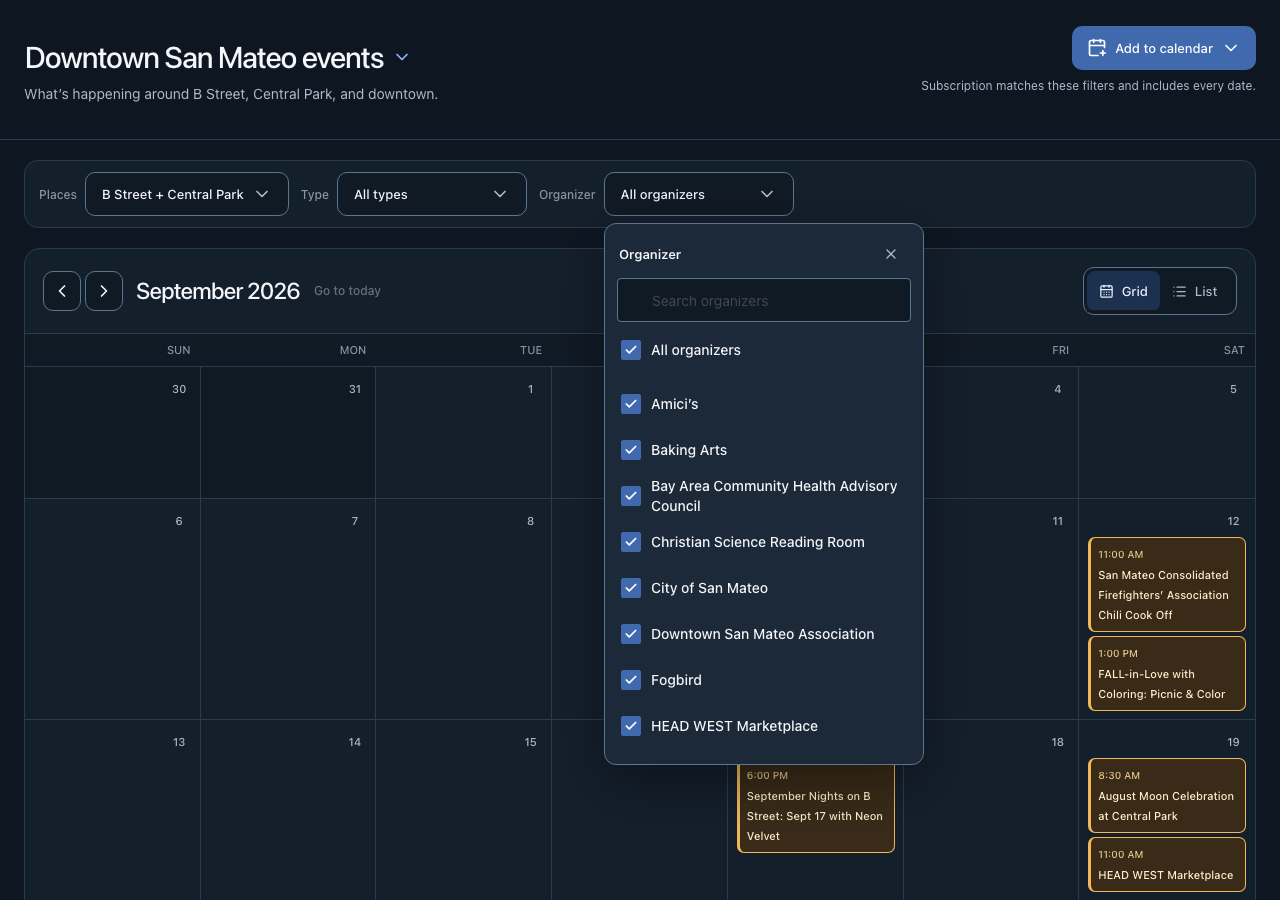
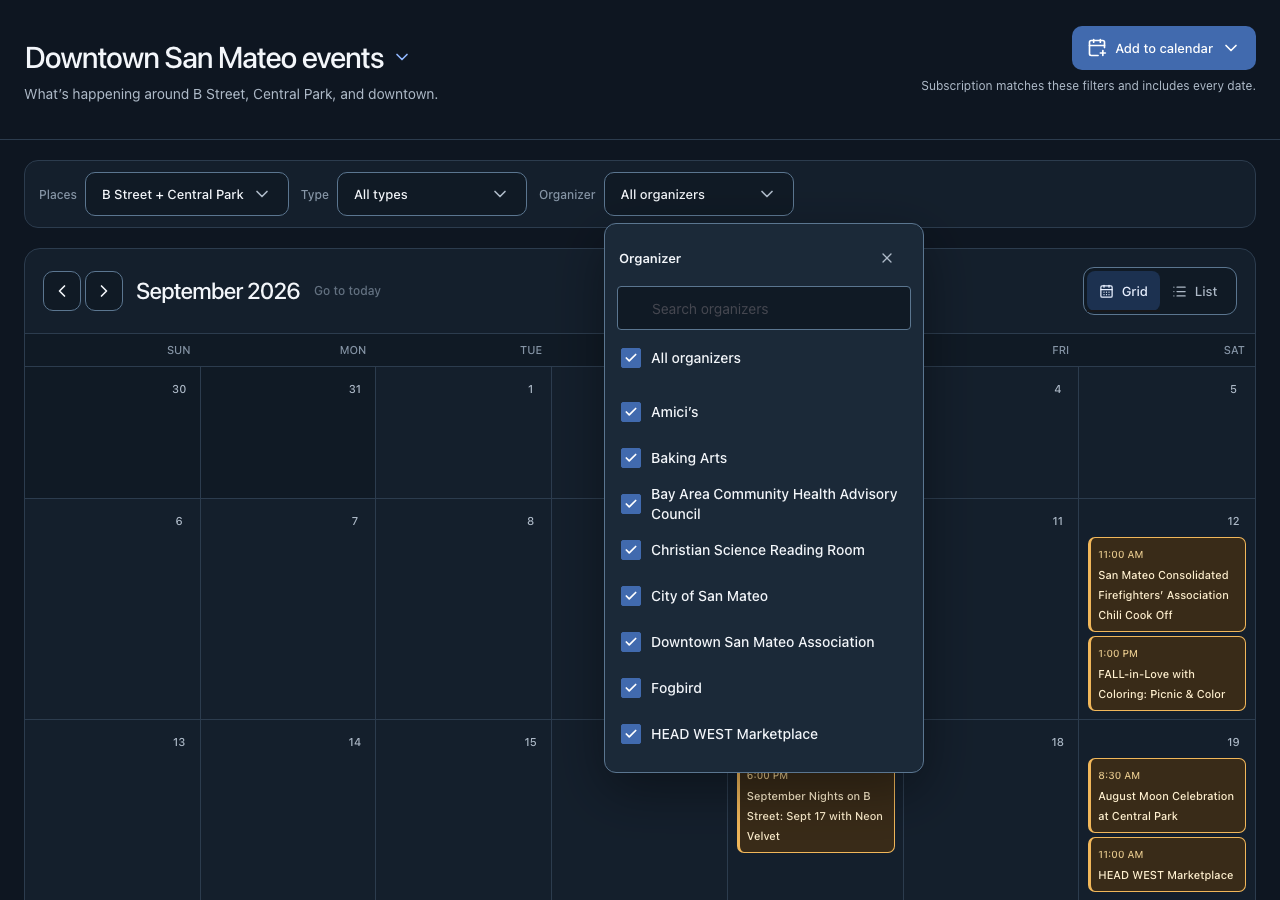
Address DTSM filter review findings

Changed region(s): [[0.4688, 0.4356, 0.7188, 0.8711], [0.4688, 0.28, 0.5938, 0.4044]]

diff --git a/frontend/src/App.test.tsx b/frontend/src/App.test.tsx
@@ -522,7 +522,9 @@ describe('Calendar explorer', () => {
       })
     )
     const user = userEvent.setup()
-    await renderScenario()
+    window.history.replaceState({}, '', '/?__scenario=busy')
+    renderApp()
+    await screen.findByRole('button', { name: /Second Saturday Market/ })
     await user.click(screen.getByRole('button', { name: 'Type: Events' }))
     const events = await screen.findByRole('checkbox', { name: 'Events' })
     expect(events.closest('[data-scope="checkbox"]')).toHaveAttribute(
@@ -534,6 +536,70 @@ describe('Calendar explorer', () => {
     expect(localStorage.getItem('calendar-explorer:v1')).toContain(
       '"categoryIds":[15,25]'
     )
+  })
+
+  it('drops hidden series IDs on the first explicit semantic type change', async () => {
+    localStorage.setItem(
+      'calendar-explorer:v1',
+      JSON.stringify({
+        filters: {
+          dtsm: {
+            venueIds: [1201, 1249, 1260, 1328, 3999, 1137],
+            organizerIds: null,
+            categoryIds: [24]
+          }
+        }
+      })
+    )
+    const user = userEvent.setup()
+    window.history.replaceState({}, '', '/?__scenario=busy')
+    renderApp()
+    await screen.findByRole('button', { name: /Second Saturday Market/ })
+    await user.click(
+      screen.getByRole('button', { name: 'Type: Head West 2026' })
+    )
+    await user.click(
+      await screen.findByRole('checkbox', { name: 'Promotions' })
+    )
+    expect(localStorage.getItem('calendar-explorer:v1')).toContain(
+      '"categoryIds":[14,26]'
+    )
+    expect(localStorage.getItem('calendar-explorer:v1')).not.toContain(
+      '"categoryIds":[14,24,26]'
+    )
+    await user.keyboard('{Escape}')
+    await user.click(screen.getByRole('button', { name: 'Add to calendar' }))
+    expect(screen.getByText('Apple Calendar').closest('a')).toHaveAttribute(
+      'href',
+      'webcal://localhost:8787/dtsm-events.ics?venues=1137%2C1201%2C1249%2C1260%2C1328%2C3999&categories=14%2C26'
+    )
+  })
+
+  it('dismisses an initially open place filter with Close and outside interaction', async () => {
+    window.history.replaceState({}, '', '/?__scenario=busy&__panel=places')
+    const user = userEvent.setup()
+    renderApp()
+    await screen.findByRole('checkbox', { name: 'All places' })
+    const trigger = screen.getByRole('button', {
+      name: 'Places: B Street + Central Park'
+    })
+    await user.click(screen.getByRole('button', { name: 'Close place filters' }))
+    await waitFor(() =>
+      expect(
+        screen.queryByRole('checkbox', { name: 'All places' })
+      ).not.toBeInTheDocument()
+    )
+    expect(trigger).toHaveFocus()
+
+    await user.click(trigger)
+    await screen.findByRole('checkbox', { name: 'All places' })
+    await user.click(screen.getByRole('heading', { level: 2 }))
+    await waitFor(() =>
+      expect(
+        screen.queryByRole('checkbox', { name: 'All places' })
+      ).not.toBeInTheDocument()
+    )
+    expect(trigger).toHaveFocus()
   })
 
   it('shows compact grid overflow', async () => {

diff --git a/frontend/src/components/FilterPopover.tsx b/frontend/src/components/FilterPopover.tsx
@@ -23,7 +23,11 @@ import {
   type IdSelection
 } from '../filters'
 import { controlProps, focusRing } from '../theme'
-import { matchesFilter, visualFilterPanel } from './filter-utils'
+import {
+  matchesFilter,
+  visualFilterPanel,
+  visualFilterSearch
+} from './filter-utils'
 
 export function FilterCheckboxRow({
   checked,
@@ -73,14 +77,20 @@ export function FilterPopover(props: {
   searchable?: boolean
   onChange: (selection: IdSelection) => void
 }) {
-  const [query, setQuery] = useState('')
+  const [query, setQuery] = useState(() =>
+    visualFilterSearch(props.label.toLocaleLowerCase())
+  )
   const searchRef = useRef<HTMLInputElement>(null)
   const allRef = useRef<HTMLInputElement>(null)
   const choices = props.choices.filter(choice =>
     matchesFilter(choice.name, query)
   )
   const allIds = props.choices.flatMap(choice => choice.ids)
-  const forcedOpen = visualFilterPanel(props.label.toLocaleLowerCase())
+  const visibleSelection =
+    props.selection === null
+      ? null
+      : props.selection.filter(id => allIds.includes(id))
+  const fixtureOpen = visualFilterPanel(props.label.toLocaleLowerCase())
   const summary = selectionSummary(
     props.selection,
     props.rawOptions,
@@ -90,7 +100,7 @@ export function FilterPopover(props: {
   )
   return (
     <Popover.Root
-      open={forcedOpen || undefined}
+      defaultOpen={fixtureOpen}
       positioning={{ placement: 'bottom-start', gutter: 7 }}
       initialFocusEl={() =>
         props.searchable ? searchRef.current : allRef.current
@@ -131,6 +141,8 @@ export function FilterPopover(props: {
                 <CloseButton
                   aria-label={`Close ${props.label.toLocaleLowerCase()} filters`}
                   size="sm"
+                  minW="touchTarget"
+                  minH="touchTarget"
                   color="calendar.muted"
                   _focusVisible={focusRing}
                 />
@@ -177,7 +189,7 @@ export function FilterPopover(props: {
                   label={choice.name}
                   onChange={checked =>
                     props.onChange(
-                      toggleIds(props.selection, choice.ids, checked, allIds)
+                      toggleIds(visibleSelection, choice.ids, checked, allIds)
                     )
                   }
                 />

diff --git a/frontend/src/components/PlaceFilterPopover.tsx b/frontend/src/components/PlaceFilterPopover.tsx
@@ -23,7 +23,11 @@ import {
 } from '../filters'
 import { controlProps, focusRing } from '../theme'
 import { FilterCheckboxRow } from './FilterPopover'
-import { matchesFilter, visualFilterPanel } from './filter-utils'
+import {
+  matchesFilter,
+  visualFilterPanel,
+  visualFilterSearch
+} from './filter-utils'
 
 export function PlaceFilterPopover(props: {
   selection: IdSelection
@@ -32,9 +36,9 @@ export function PlaceFilterPopover(props: {
   defaultIds: readonly number[]
   onChange: (selection: IdSelection) => void
 }) {
-  const [query, setQuery] = useState('')
+  const [query, setQuery] = useState(() => visualFilterSearch('places'))
   const searchRef = useRef<HTMLInputElement>(null)
-  const forcedOpen = visualFilterPanel('places')
+  const fixtureOpen = visualFilterPanel('places')
   const allIds = [
     ...props.model.placeGroups.flatMap(group => group.ids),
     ...props.model.places.map(place => place.id)
@@ -70,7 +74,7 @@ export function PlaceFilterPopover(props: {
 
   return (
     <Popover.Root
-      open={forcedOpen || undefined}
+      defaultOpen={fixtureOpen}
       positioning={{ placement: 'bottom-start', gutter: 7 }}
       initialFocusEl={() => searchRef.current}
       onOpenChange={({ open }) => !open && setQuery('')}
@@ -90,8 +94,8 @@ export function PlaceFilterPopover(props: {
       <Portal>
         <Popover.Positioner>
           <Popover.Content
-            minW="300px"
-            maxW="min(410px, calc(100vw - 28px))"
+            w="min(410px, calc(100vw - 28px))"
+            minW="0"
             p="6px"
             borderWidth="1px"
             borderColor="calendar.controlBorder"
@@ -109,6 +113,8 @@ export function PlaceFilterPopover(props: {
                 <CloseButton
                   aria-label="Close place filters"
                   size="sm"
+                  minW="touchTarget"
+                  minH="touchTarget"
                   color="calendar.muted"
                   _focusVisible={focusRing}
                 />

diff --git a/frontend/src/App.tsx b/frontend/src/App.tsx
@@ -42,7 +42,27 @@ export default function App() {
   const [state, setState] = useState<ExplorerState>(() => {
     /* istanbul ignore if -- localStorage is present in every supported browser. */
     if (typeof localStorage === 'undefined') return defaultExplorerState(false)
-    return readExplorerState(localStorage, mediaMatches('(max-width: 700px)'))
+    const restored = readExplorerState(
+      localStorage,
+      mediaMatches('(max-width: 700px)')
+    )
+    /* istanbul ignore next -- Vite removes this visual-QA branch in production. */
+    if (
+      import.meta.env.DEV &&
+      new URLSearchParams(window.location.search).get('__selection') ===
+        'partial-b-street'
+    )
+      return {
+        ...restored,
+        filters: {
+          ...restored.filters,
+          dtsm: {
+            ...restored.filters.dtsm,
+            venueIds: [1249, 1260, 1328, 3999, 1137]
+          }
+        }
+      }
+    return restored
   })
   const [selectedKey, setSelectedKey] = useState<string | null>(null)
   const [filtersOpen, setFiltersOpen] = useState(() => {
@@ -54,10 +74,6 @@ export default function App() {
   })
   const [status, setStatus] = useState('')
   const [focusDay, setFocusDay] = useState<string | null>(null)
-  /* istanbul ignore next -- Vite removes this visual-QA branch in production. */
-  const forceFiltersOpen =
-    import.meta.env.DEV &&
-    new URLSearchParams(window.location.search).has('__panel')
 
   useEffect(() => {
     if (!status) return
@@ -195,7 +211,7 @@ export default function App() {
           feed={explorer.feed}
           filters={explorer.filters}
           isNarrow={isNarrow}
-          open={forceFiltersOpen || filtersOpen}
+          open={filtersOpen}
           activeFilters={activeFilters}
           options={optionsQuery.data}
           optionsPending={optionsQuery.isPending}

diff --git a/frontend/src/components/filter-utils.ts b/frontend/src/components/filter-utils.ts
@@ -1,9 +1,19 @@
 export function visualFilterPanel(name: string): boolean {
-  /* istanbul ignore next -- Vite removes this visual-QA branch in production. */
-  return (
-    import.meta.env.DEV &&
-    new URLSearchParams(window.location.search).get('__panel') === name
-  )
+  /* istanbul ignore else -- Vite removes this visual-QA branch in production. */
+  if (import.meta.env.DEV)
+    return new URLSearchParams(window.location.search).get('__panel') === name
+  /* istanbul ignore next -- unreachable in the development-mode test build. */
+  return false
+}
+
+export function visualFilterSearch(name: string): string {
+  /* istanbul ignore else -- Vite removes this visual-QA branch in production. */
+  if (import.meta.env.DEV) {
+    const params = new URLSearchParams(window.location.search)
+    return params.get('__panel') === name ? (params.get('__search') ?? '') : ''
+  }
+  /* istanbul ignore next -- unreachable in the development-mode test build. */
+  return ''
 }
 
 export function matchesFilter(value: string, query: string): boolean {

diff --git a/frontend/src/api.test.ts b/frontend/src/api.test.ts
@@ -111,13 +111,27 @@ describe('calendar API client', () => {
           venues: [],
           organizers: [],
           categories: [],
-          filterModel: { version: 2 }
+          filterModel: { version: 1 }
         })
       )
     )
     await expect(fetchDtsmOptions(undefined, invalidModel)).rejects.toThrow(
       'invalid filter options'
     )
+    const futureModel = vi.fn<typeof fetch>().mockResolvedValue(
+      new Response(
+        JSON.stringify({
+          defaultVenueIds: [1201],
+          venues: [{ id: 1201, name: 'North B Street' }],
+          organizers: [],
+          categories: [],
+          filterModel: { version: 2, future: true }
+        })
+      )
+    )
+    await expect(
+      fetchDtsmOptions(undefined, futureModel)
+    ).resolves.toMatchObject({ filterModel: { version: 1 } })
 
     const html = vi
       .fn<typeof fetch>()

diff --git a/frontend/src/api.ts b/frontend/src/api.ts
@@ -102,16 +102,20 @@ function parseDtsmOptions(value: unknown): ResolvedDtsmFilterOptionsResponse {
       'Calendar service returned invalid filter options'
     )
   const response = value as unknown as DtsmFilterOptionsResponse
+  const suppliedModel = response.filterModel
   if (
-    response.filterModel !== undefined &&
-    !isFilterModel(response.filterModel)
+    isRecord(suppliedModel) &&
+    suppliedModel.version === 1 &&
+    !isFilterModel(suppliedModel)
   )
     throw new CalendarRequestError(
       'Calendar service returned invalid filter options'
     )
   return {
     ...response,
-    filterModel: response.filterModel ?? buildDtsmFilterModel(response)
+    filterModel: isFilterModel(suppliedModel)
+      ? suppliedModel
+      : buildDtsmFilterModel(response)
   }
 }
 

diff --git a/frontend/src/components/ExplorerHeader.tsx b/frontend/src/components/ExplorerHeader.tsx
@@ -51,12 +51,20 @@ function CalendarMenu(props: {
           justifyContent="flex-start"
           textAlign="left"
           whiteSpace="normal"
+          maxW="100%"
           _hover={{ color: 'calendar.link' }}
           _open={{ color: 'calendar.link' }}
           _focusVisible={focusRing}
         >
-          <span>{feeds[props.feed].name}</span>
-          <ChevronDown size={18} color="#91B8FF" aria-hidden="true" />
+          <Text as="span" minW="0" truncate>
+            {feeds[props.feed].name}
+          </Text>
+          <ChevronDown
+            size={18}
+            color="#91B8FF"
+            aria-hidden="true"
+            style={{ flexShrink: 0 }}
+          />
         </Button>
       </Menu.Trigger>
       <Portal>

diff --git a/docs/screenshots/dtsm-filter-hotfix/README.md b/docs/screenshots/dtsm-filter-hotfix/README.md
@@ -12,11 +12,17 @@ West 2026, Promotion, and Promotions.
   the yearly Head West series tag is not presented as a peer event type.
 - `desktop-organizers.png`: 1280 × 900, accurately labeled, searchable
   organizers with decoded source names.
-- `mobile-places-320.png`: 320 × 700, the expanded mobile filter disclosure and
+- `desktop-places-partial.png`: 1280 × 900, one B Street child cleared so the
+  parent visibly renders its indeterminate state.
+- `desktop-places-search.png`: 1280 × 900, a real place search narrowed to
+  Sutter Medical Center.
+- `mobile-places-320.png`: 320 × 1000, the expanded mobile filter disclosure and
   nested Places popover without horizontal overflow.
 
 Browser interaction QA measured every sampled checkbox row at 44 CSS pixels,
 found zero checkbox-control/label overlap at desktop and 320 px, verified the B
 Street parent’s indeterminate state after changing one child, and observed no
-runtime warning or error logs. These are implementation captures, not Figma
-artifacts.
+runtime warning or error logs. The raw measurements, popover and scroll-region
+rectangles, search result, dismissal/focus outcomes, and exact canonical
+subscription URLs are checked in as `interaction-evidence.json`. These are
+implementation captures, not Figma artifacts.
